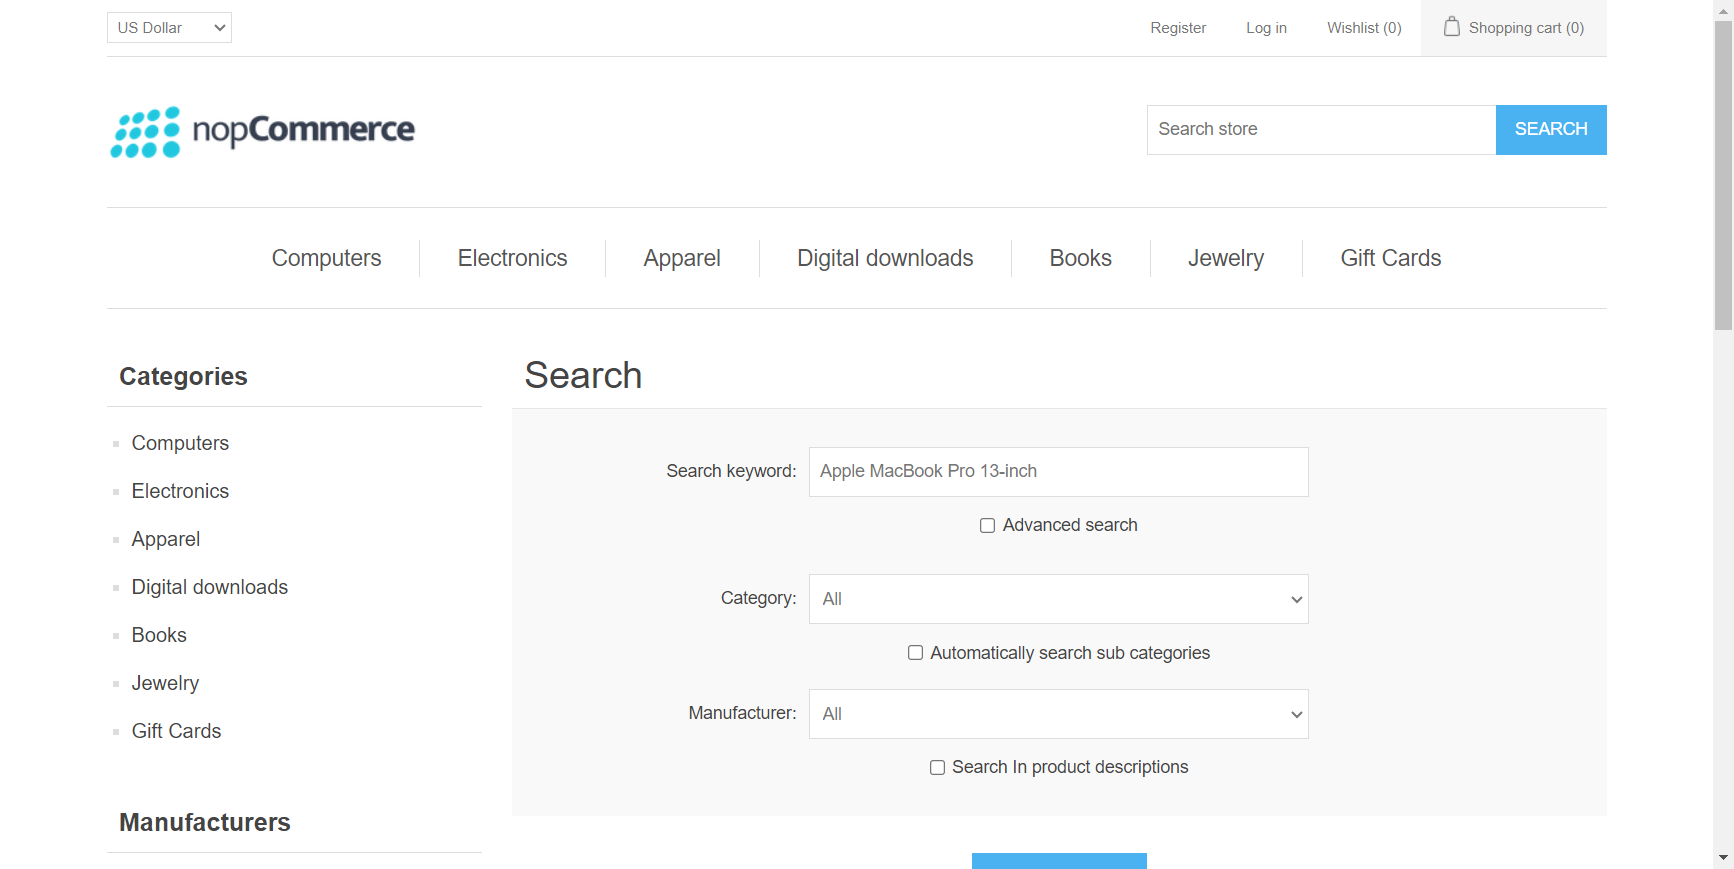
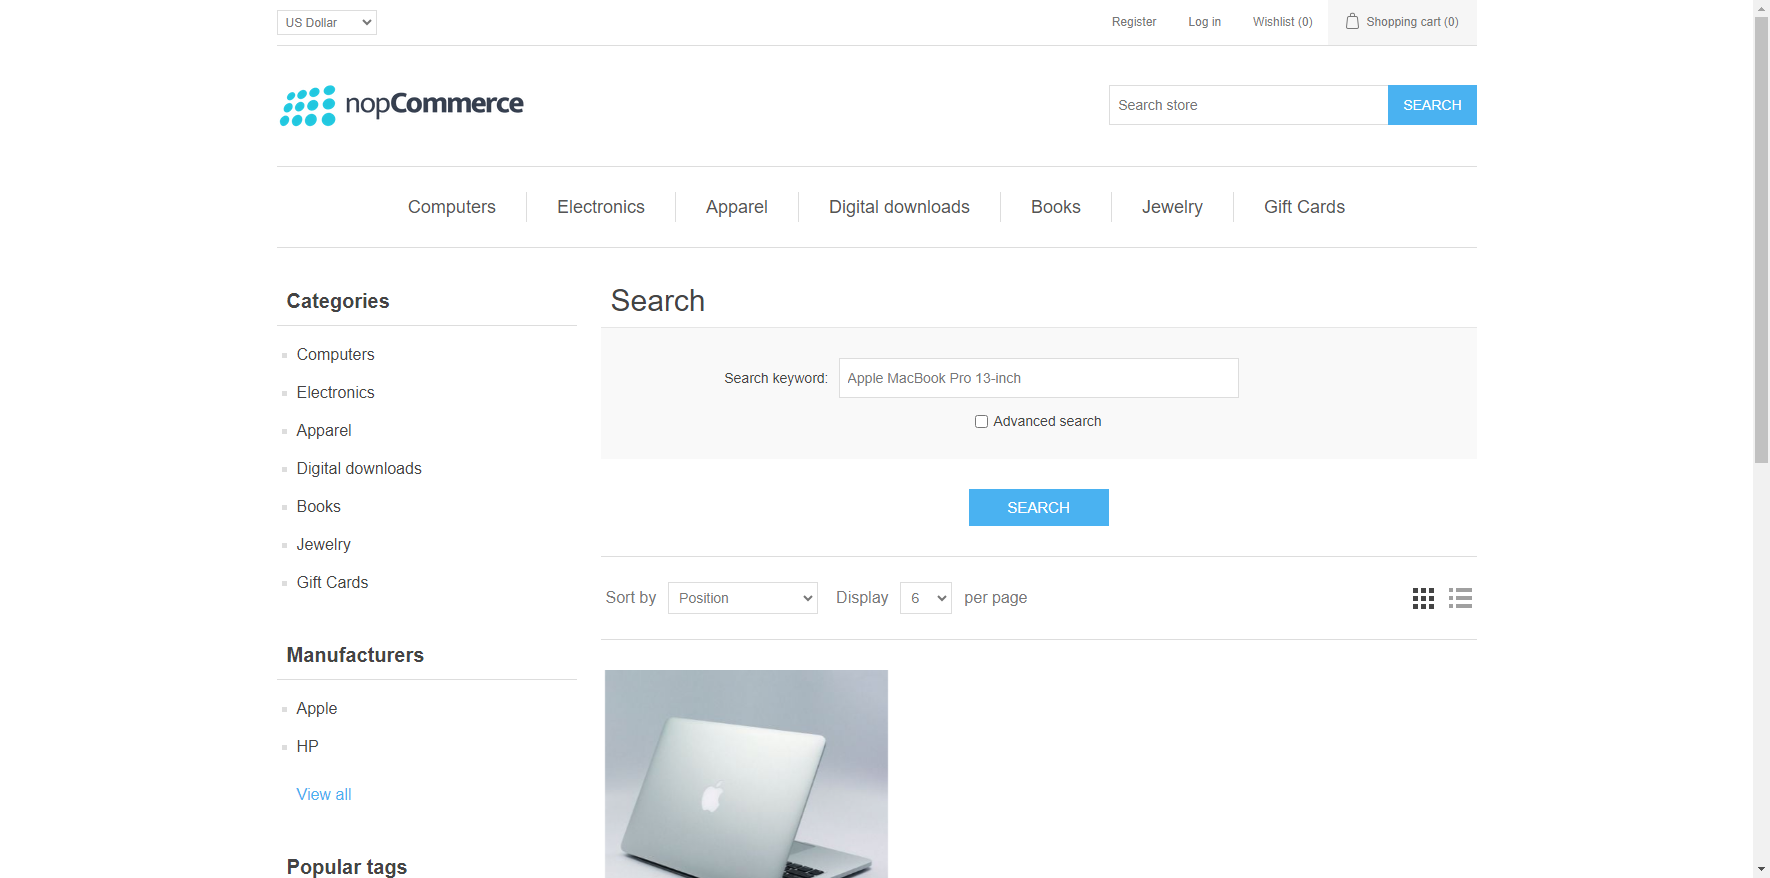
modify

diff --git a/src/main/java/pages/P06SearchPage.java b/src/main/java/pages/P06SearchPage.java
@@ -10,7 +10,7 @@ import java.util.List;
 public class P06SearchPage extends PageBase {
     By searchTxtBox = By.id("small-searchterms");
     By searchBtn = By.xpath("//button[@class='button-1 search-box-button']");
-    public By searchAssert = By.cssSelector("h1.product-name");
+    public By searchAssert = By.xpath("//img[@alt=\"Picture of Apple MacBook Pro 13-inch\"]");
     public List<WebElement> optionElements = driver.findElements(By.id("ui-id-1"));
 
     public P06SearchPage(WebDriver driver) {

diff --git a/src/test/java/tests/T04MyAccountTest.java b/src/test/java/tests/T04MyAccountTest.java
@@ -17,7 +17,7 @@ public class T04MyAccountTest extends TestBase {
     P05MyAccountPage p05MyAccountPageObject;
     String fName = "Robert";
     String lName = "John";
-    String email = "test74@example.com";
+    String email = "test86@example.com";
     String oldPassword = "123456";
     String newPassword = "123456789";
 

diff --git a/src/test/java/tests/T07EmailFriendTest.java b/src/test/java/tests/T07EmailFriendTest.java
@@ -15,7 +15,7 @@ public class T07EmailFriendTest extends TestBase {
 
     String fName = "Robert";
     String lName = "John";
-    String email = "test84@example.com";
+    String email = "test87@example.com";
     String personalMsg = "This product is very good for you";
     String password = "123456";
 

diff --git a/src/test/java/tests/T01RegistrationTest.java b/src/test/java/tests/T01RegistrationTest.java
@@ -12,7 +12,7 @@ public class T01RegistrationTest extends TestBase {
     P02RegistrationPage registerObject;
     String fName = "Robert";
     String lName = "John";
-    String email = "test75@example.com";
+    String email = "test85@example.com";
     String password = "123456";
 
     @Test

diff --git a/src/test/java/tests/T02LoginTest.java b/src/test/java/tests/T02LoginTest.java
@@ -15,7 +15,7 @@ public class T02LoginTest extends TestBase {
     P03LoginPage loginObject;
     String fName = "Robert";
     String lName = "John";
-    String email = "test71@example.com";
+    String email = "test86@example.com";
     String password = "123456";
 
     @Test(priority = 1)

diff --git a/src/test/java/base/TestBase.java b/src/test/java/base/TestBase.java
@@ -18,7 +18,7 @@ public class TestBase {
         driver.navigate().to("https://demo.nopcommerce.com");
     }
 
-    @AfterClass(enabled = true)
+    @AfterClass(enabled = false)
     public void tearDown() {
         if (driver != null) {
             driver.quit();
